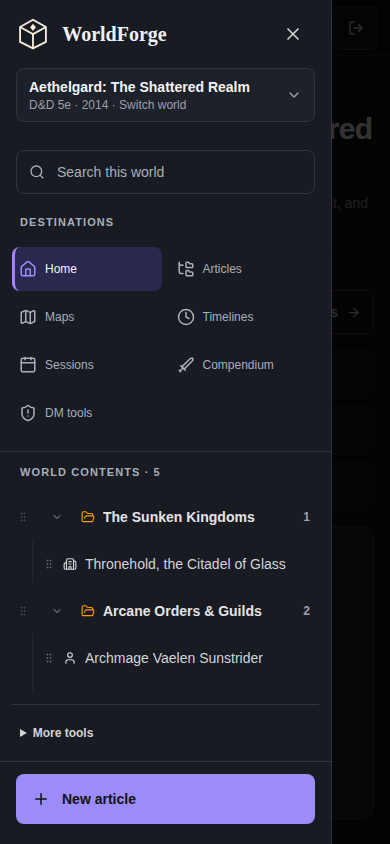
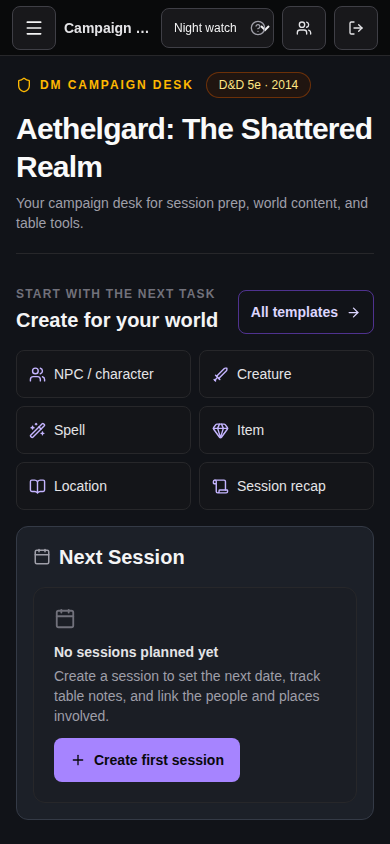
docs: show mobile campaign desk without the drawer

diff --git a/README.md b/README.md
@@ -26,7 +26,7 @@ your use, and keep backups of your campaign data. See the
 
 ### Mobile
 
-![Mobile Aethelgard author workspace with the campaign navigation drawer and World contents tree open](docs/screenshots/author-workspace-mobile.png)
+![Mobile Aethelgard campaign desk with creation shortcuts and the Next Session panel](docs/screenshots/author-workspace-mobile.png)
 
 Both views come from the optional Aethelgard demo seed and show the Night Watch
 author workspace. The **Interface theme** dropdown in the top-right now offers
